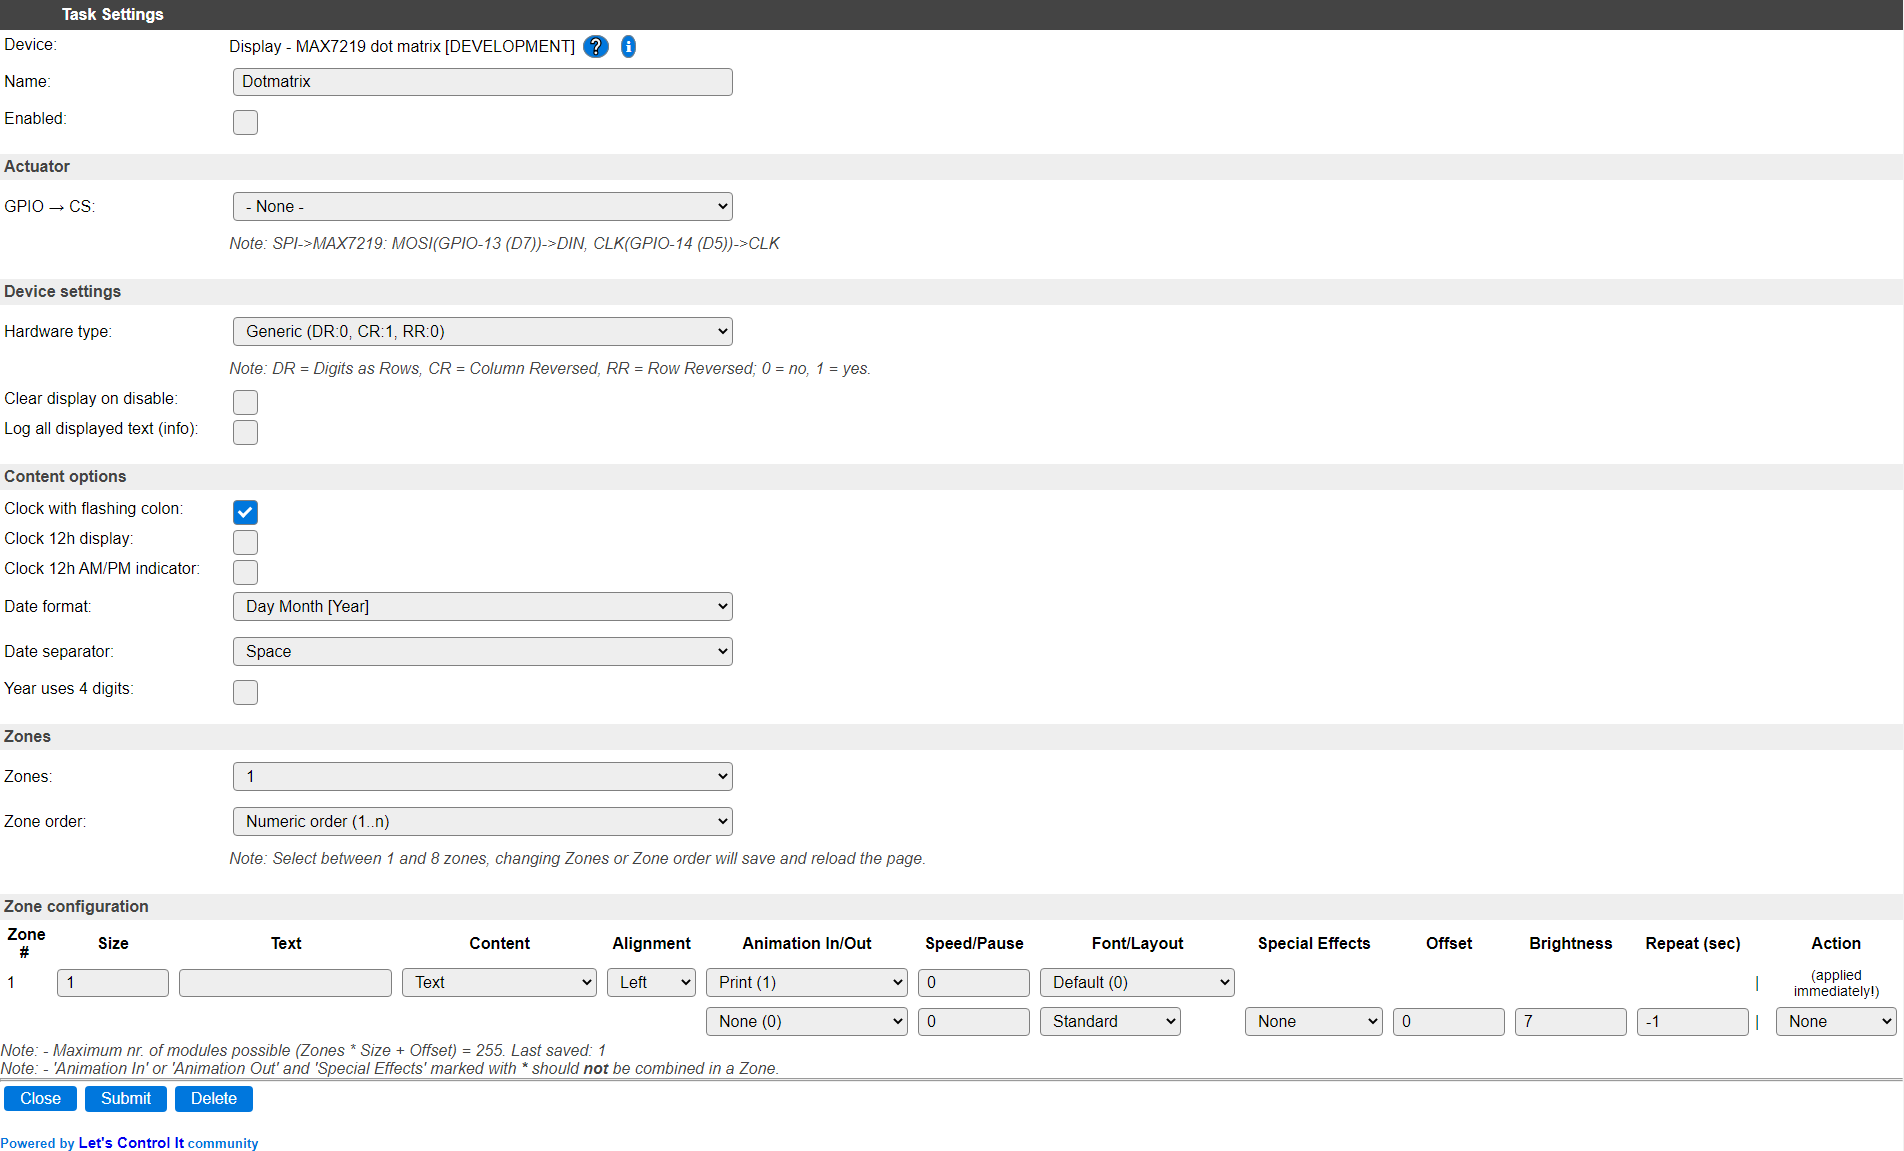
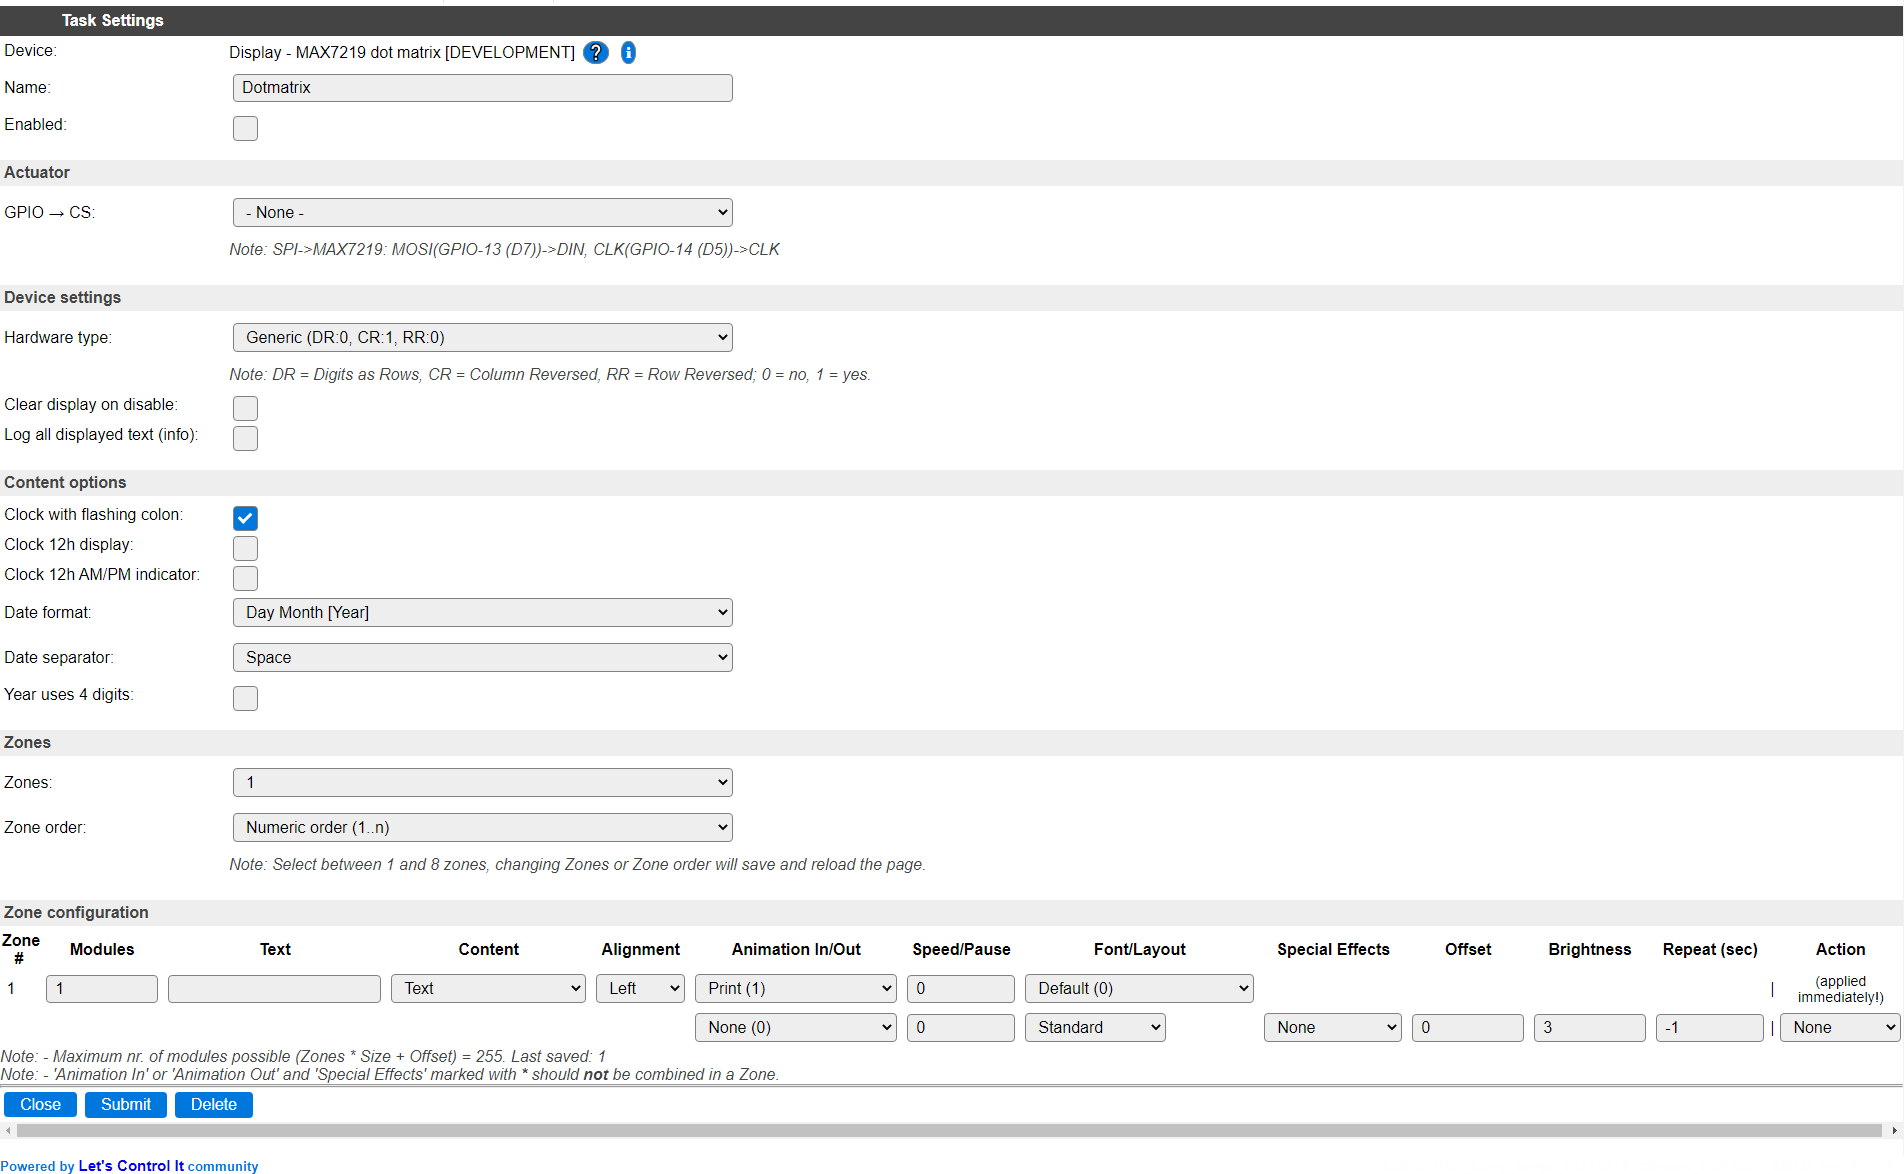
[P104] Update and improve documentation

diff --git a/docs/source/Plugin/P104.rst b/docs/source/Plugin/P104.rst
@@ -26,13 +26,14 @@ Datasheet: |P104_datasheet|
 Description
 -----------
 
-The MAX7219 LED controllers are versatile in the fact that they can control either a set of 7-segment displays (see :ref:`P073_Page`) or a matrix of up to 64 LEDs, where this plugin comes in. *(Technically, the MAX7221 chip is also supported by the MD_Parola/MD_MAX72XX libraries, but as I didn't find any boards using that chip, I can't officially say it is supported.)*
+The MAX7219 LED controllers are versatile in the fact that they can control either a set of 7-segment displays (see :ref:`P073_Page`) or, a matrix of up to 64 LEDs and that's where this plugin comes in. *(Technically, the MAX7221 chip is also supported by the MD_Parola/MD_MAX72XX libraries, but as I didn't find any boards using that chip, I can't officially say it is supported.)*
 
 This plugin is designed to configure and control a daisy-chained series of up to 255 modules of 8x8 dotmatrix displays, that can be be bought from several suppliers, in several predefined physical configurations (1, 2, 4, 8, 2x2, 2x4 and 2x8 modules).
 
 The usual logical order of these modules is from right to left, and bottom to top (for the double-height modules), in zig-zag order:
 
 .. image:: P104_parola_dh_hardware2.jpg
+   :alt: Parola logical module ordering
 
 (Image sourced from Parola A-Z blog articles)
 
@@ -84,6 +85,7 @@ Device configuration
 After adding the plugin to the Devices page, the configuration is shown: (Name was already set by me before the screenshot was made)
 
 .. image:: P104_DeviceSettings.png
+   :alt: Device configuration overview
 
 Task settings
 ~~~~~~~~~~~~~~
@@ -105,6 +107,7 @@ Device settings
 The list of available types is:
 
 .. image:: P104_HardwareTypes.png
+   :alt: Hardware type options
 
 Not all possible hardware types are commercially available, these have been named 'Other'. For each type the available Max72xx settings are added to the description.
 
@@ -112,7 +115,7 @@ Legend: DR = Digits as Rows, CR = Column Reversed, RR = Row Reversed; 0 = no, 1 
 
 All modules I ordered from Aliexpress so far work with the ``FC16`` hardware type. If that doesn't work, f.e. because the text is displayed reversed per module, or vertically instead of horizontally, then another hardware type should be tried.
 
-If multiple modules are to be connected daisy-chained, they all need to be of the same hardware type, as the Parola library doesn't support a different hardware type per zone.
+If multiple modules are to be connected daisy-chained, they all need to be of the same hardware type, as the Parola library that is used doesn't support different hardware types per zone. When multiple hardware types are to be used, then a separate Task (Devices tab) can be created matching those settings, and a separate GPIO pin should be configured for the ``CS`` pin.
 
 * **Clear display on disable** When enabled, the display will be cleared when the task is disabled.
 
@@ -134,12 +137,14 @@ The content options are global to all zones.
 Available options:
 
 .. image:: P104_DateFormatOptions.png
+   :alt: Date format options
 
 * **Date separator** Select the separator to use for Date content types.
 
 Available options:
 
 .. image:: P104_DateSeparatorOptions.png
+   :alt: Date separator options
 
 * **Year uses 4 digits** When enabled, the Date yr and Date/time content types use a 4 digit year display instead of 2 digits.
 
@@ -155,21 +160,23 @@ Zones
 Available choices:
 
 .. image:: P104_ZoneOrderOptions.png
+   :alt: Zone order options
 
 Zone configuration
 ~~~~~~~~~~~~~~~~~~
 
 For each Zone there are a number of settings that can be configured.
 
-* **Size** The number of modules that are in this zone. The maximum that can be set here is 255.
+* **Modules** The number of modules that are in this zone. The maximum that can be set here is 255.
 
-* **Text** If a pre-defined text should be displayed for the zone, it can be set here. The usual variables and functions, as shown on the Tools/System Variables can be used, as well as the ``[Task#<variable>]`` and ``[Var#<n>]``, ``[Int#<n>]`` and ``%v<n>%`` variables. The system variables that produce special characters, like ``{D}`` etc., actually generate Unicode characters, and that is not supported by the, ASCII based, fonts used. To use any special characters look them up in the font tables, below, to have the desired characters displayed. This field is also used by the Bar graph content type for any predefined bar graph display. Maximum length of this field is 100 characters. If longer contents needs to be set, it can be set from the rules using the ``DotMatrix,<zone>,txt,"<text content>"`` command. (``txt`` and ``settxt`` subcommands).
+* **Text** If a pre-defined text should be displayed for the zone, it can be set here. The usual variables and functions, as shown on the Tools/System Variables page can be used, as well as the ``[Task#<variable>]`` and ``[Var#<n>]``, ``[Int#<n>]`` and ``%v<n>%`` variables. The system variables that produce special characters, like ``{D}`` etc., actually generate Unicode characters, and that is not supported by the, ASCII based, fonts used. To use any special characters look them up in the font tables, below, to have the desired characters displayed. This field is also used by the Bar graph content type for any predefined bar graph display. Maximum length of this field is 100 characters. If longer contents needs to be set, it can be set from the rules using the ``DotMatrix,<zone>,txt,"<text content>"`` command. (``txt`` and ``settxt`` subcommands).
 
 * **Content** Select the type of content shown in the zone.
 
 This are the available options:
 
 .. image:: P104_ZoneContentOptions.png
+   :alt: Zone content options
 
 Between round braces the expected number of modules, required to display the complete content, is added.
 
@@ -191,36 +198,40 @@ Content type: Bar graph: See below in the Commands section for a full descriptio
 Available options:
 
 .. image:: P104_ZoneAlignmentOptions.png
+   :alt: Zone alignment options
 
-* **Animation In** The animation that is used to put the content into the zone. Default is Print, that just puts the content according to the alignment, in the zone. None is not available for **Animation In**, as it would never display anything.
+* **Animation In** The animation that is used to put the content into the zone. Default is Print, that just puts the content according to the alignment, in the zone. Animation option None is not available for **Animation In**, as the zone would not display anything.
 
-* **Animation Out** The animation used to remove the content from the zone. If set to None (the default), the content will stay in the zone until it is changed, or updated using the **Repeat (sec)** option.
+* **Animation Out** The animation used to 'remove' the content from the zone. If set to None (the default), the content will stay in the zone until it is changed, or updated when the **Repeat (sec)** option is used.
 
 Available options:
 
 .. image:: P104_ZoneAnimationOptions1.png
+   :alt: Zone animation options, part 1
 
 .. image:: P104_ZoneAnimationOptions2.png
+   :alt: Zone animation options, part 2
 
 The exact effect of each animation can best be seen by experimenting with them.
 
-Some animations are marked with an asterisk ``*`` as a warning that they should not be combined with a **Special Effects** setting that is *also* marked with an asterisk. The result is undefined, and may give a distorted display.
+Some animations are marked with an asterisk ``*`` as a warning that they should not be combined with a **Special Effects** setting that is *also* marked with an asterisk. The result is undefined, and may result in a distorted display.
 
 * **Speed** The speed setting is used to control the speed factor of the animation in the zone in milliseconds. It is used for both the In and Out animations. When set to 0, the delay between each animation step is ~25 msec.
 
 * **Pause** The delay after completing the **Animation In** before starting the **Animation Out**, in milliseconds. If no Out animation is set, this still adds to the time of completing the animation (before a next Repeat would be started).
 
-* **Font** The font used to display the content. A few special fonts are available, allowing special characters to be displayed, and also a double-height font can be used to create a larger display where two similar zones are physically mounted above each other (as shown in the image in the Description section). When using a double-height font, also the **Layout** option should be set accordingly, and the **Content** setting should be the same, as well as any text. Bar graphs do not use a font, so the **Font** and **Layout** settings are ignored.
+* **Font** The font used to display the content. A few special fonts are available, allowing special characters to be displayed, and also a double-height font can be used to create a larger display where two similar zones are physically mounted above each other (as shown in the image in the Description section). When using a double-height font, also the **Layout** option should be set accordingly, and the **Content** setting should be the same, as well as any text. Bar graphs do not use a font, so when set for a zone, the **Font** and **Layout** settings are ignored.
 
 Available options:
 
 .. image:: P104_ZoneFontOptions.png
+   :alt: Zone font options
 
-All available fonts have been taken from the examples of the original Parola library.
+All available fonts have been taken from the example code of the used Parola library.
 
 The Arabic, Greek and Katakana fonts have all their characters in the 'high-ascii' range (> 128 ascii values), so they can (and should) **not** be used to 'translate' normal text to Arabic, Greek or Katakana.
 
-On 'bin-size-challenged' builds the *Full, double height* font is replaced by the *Numeric, double height* font, to limit the bin-size a bit more. This font can display only numeric content.
+On 'bin-size-challenged' builds the *Full, double height* font is replaced by the *Numeric, double height* font, to limit the bin-size a bit more. This font can display only numeric (actually hexadecimal, 0..9 and A..F) and date/time content.
 
 Font overview:
 ^^^^^^^^^^^^^^
@@ -241,23 +252,31 @@ Font overview:
 Available options:
 
 .. image:: P104_ZoneLayoutOptions.png
+   :alt: Zone layout options
 
 * *Standard* For normal display, should be used for all fonts except the double-height fonts.
 * *Double, upper* Only for use with a double height font. Shows the upper half of a double height font.
 * *Double, lower* Only for use with a double height font. Shows the lower half of a double height font.
+
+.. spacer
 
 * **Special Effects** These effects can be used to turn a display 'upside down', in left/right 'mirror-image' or both.
 
 Available options:
 
 .. image:: P104_ZoneSpecialEffectsOptions.png
+   :alt: Zone special effects options
 
 * *None* Normal display.
 * *Flip up/down* Mirrors the content of each module on the horizontal axis.
 * *Flip left/right* Mirrors the content of each module on the vertical axis.
 * *Flip u/d & l/r* Mirrors the content of each module on both the horizontal and vertical axis.
 
+.. spacer
+
 * **Offset** The offset can be used to skip a number of modules before a zone, f.e. when displaying a smaller zone on a larger set of displays, or when a module has a defect. A value between 0 and 254 kan be used here.
+
+.. spacer
 
 * **Brightness** Sets the brightness of the display, and thus highly influences the power required by a zone. Valid values are from 0 to 15, where 0 is very dimmed, and 15 is *very* bright (though that might differ per unit).
 
@@ -279,31 +298,27 @@ Measurements have been done to determine the current per pixel, when used at 5V:
 
 (Other brightness levels can be interpolated)
 
-* **Repeat (sec)** Allows to repeat the current content of a zone to be sent again, using the animations as configured. Can be set in seconds accuracy. -1 indicates that repeat is disabled for this zone.
+* **Repeat (sec)** Allows to repeat the current content of a zone to be redisplayed, using the animations as configured. Value is in seconds accuracy. The default value -1 indicates that repeat is disabled for the zone.
 
 This will also repeat any content (usually *Text* or *Bar graph*) that is set using the corresponding commands (see below), or refresh a *Bar graph* on a regular interval. The initially set content is re-evaluated before it's displayed.
 
-* **Action** These actions are related to changing the configuration of zones, and not with the display of the zones.
+* **Action** These actions are related to changing the configuration of zones, not related to the display or content of a zones.
 
 Available actions:
 
 .. image:: P104_ZoneActionOptions.png
+   :alt: Zone action options
 
 **The selected Action is executed immediately!**
 
 * *None* No action.
-* *Add above* Add a new Zone above the current zone.
-* *Add below* Add a new Zone below the current zone.
+* *New above* Add a new Zone above the current zone.
+* *New below* Add a new Zone below the current zone.
 * *Delete* Remove the current zone from the list. **This can not be undone!**
 
-Above and Below are relative to the current Zone order, so if Zone order is in Numeric order, selecting *Add above* will shift all Zones 1 position down, and insert a new Zone above it, and if Zone order is in Display order, then action *Add above* will insert a new Zone 2 shifting any other zones 1 number up, and leave Zone 1 as is.
+Above and Below are relative to the current Zone order, so if **Zone order** is in *Numeric order*, selecting *New above* will shift all Zones 1 position down, and insert a new Zone above it, and if **Zone order** is in *Display order*, then action *New above* will insert a new Zone 2 shifting any other zones 1 number up, and leave Zone 1 as is.
 
-The *Add* options are only available if the maximum nr. of zones isn't reached yet.
-
-.. Events
-.. ~~~~~~
-
-.. .. include:: P104_events.repl
+The *New* options are only available if the maximum nr. of zones isn't reached yet.
 
 Commands
 --------
